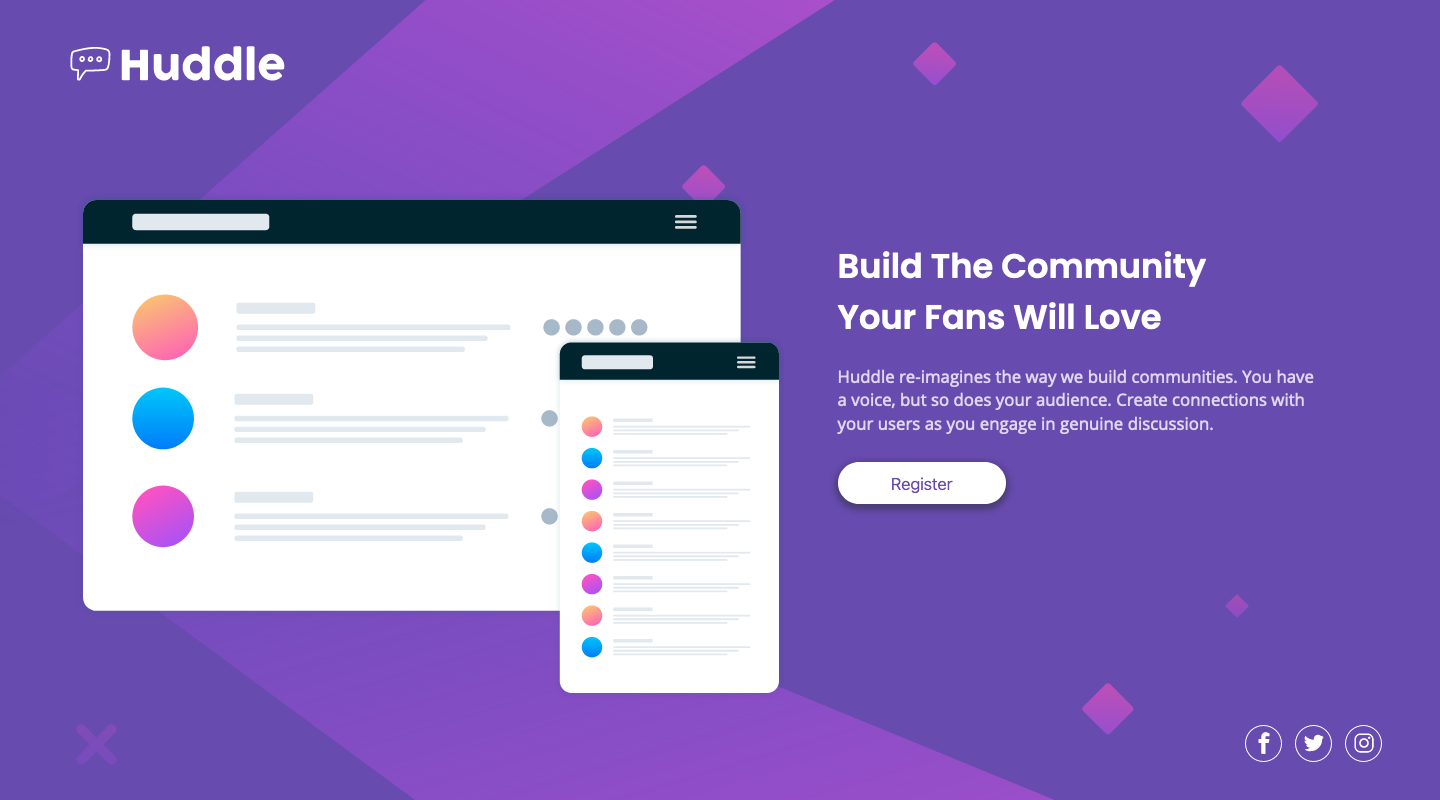
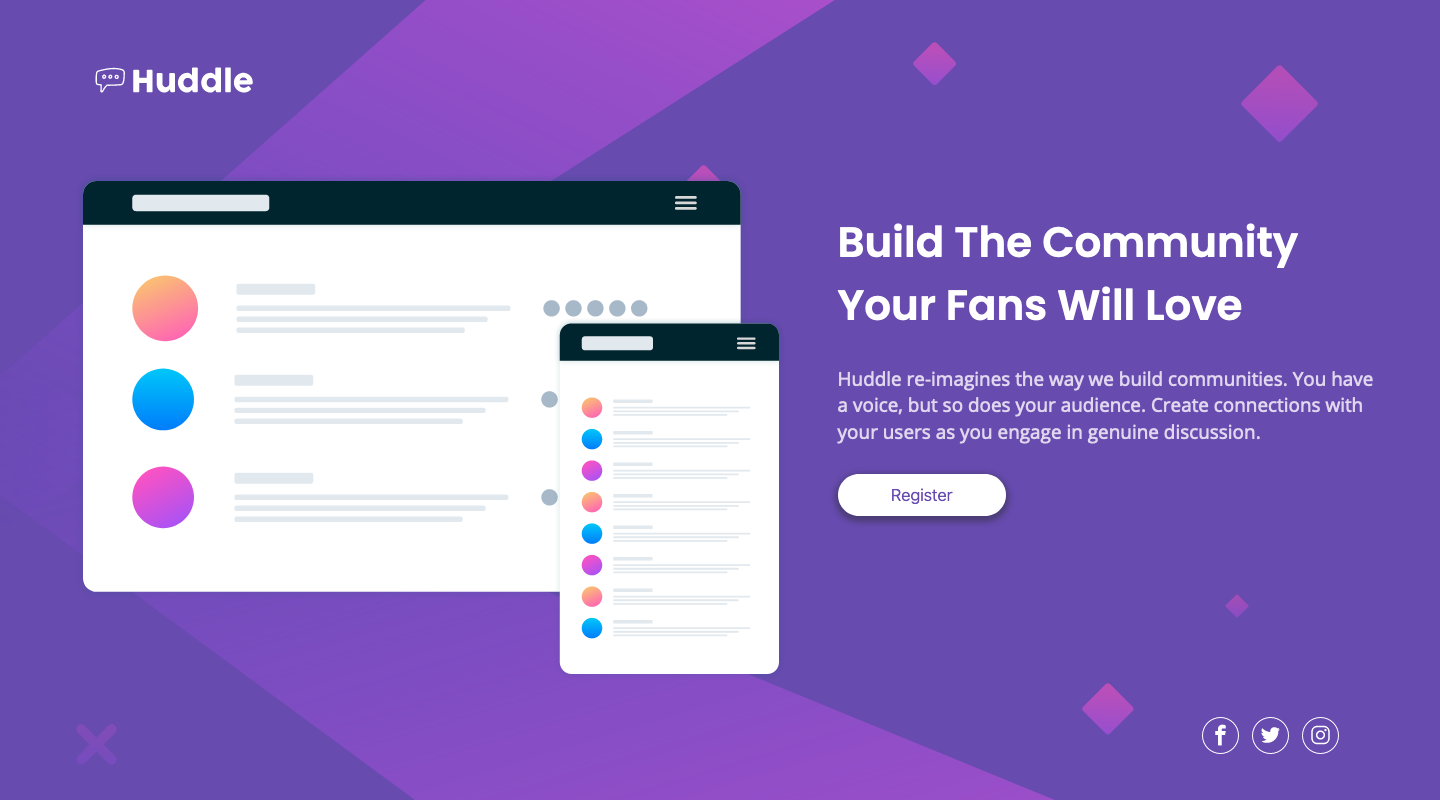
trying to get closer to design for desktop

diff --git a/style.css b/style.css
@@ -159,15 +159,19 @@ p {
 @media (min-width : 54rem) {
 
     h1 {
-        font-size: 2rem;
+        font-size: 2.5rem;
         font-weight: 600;
-        max-width: 25rem;
+    }
+
+    p {
+        font-size: 1.125rem;
     }
 
     .logo img {
-        width: 13.75rem;
-        height: 3.75rem;
-        margin-left: 3.5rem;
+        width: 12.5rem;
+        height: 2.5rem;
+        margin-left: 4rem;
+        margin-top: 3.5rem;
     }
 
     .container {
@@ -181,12 +185,12 @@ p {
 
     .container__image img {
         max-width: 100%;
-        margin: 2rem 4.5rem 0 4.5rem;
+        margin: 0.5rem 4.5rem 0rem 4.5rem
     }
 
     .container__text {
         text-align: left;
-        padding: 7rem 7rem;
+        padding: 4.5rem 3.5rem 7rem 7rem;
         flex: 1 1;
     }
 
@@ -196,8 +200,8 @@ p {
 
     .social__image__container {
         position: absolute;
-        right :4%;
-        bottom: 4%;
+        right :7%;
+        bottom: 5%;
     }
 
     .social__image {
